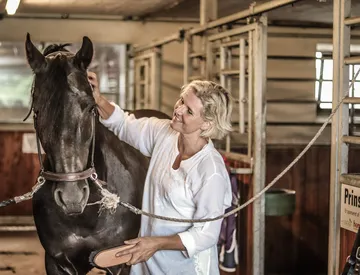
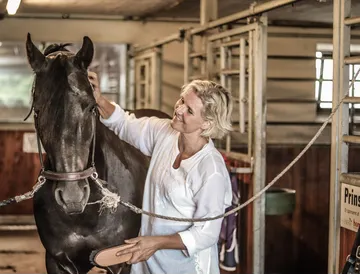
fix

diff --git a/about_us.html b/about_us.html
@@ -74,7 +74,7 @@
             </div>
 
             <div class="imgrow">
-                <img src="images/about_us/sirius_new.webp">
+                <img src="images/about_us/sirius.webp">
                 <h3>Sirius</h3>
             </div>
         </div>
